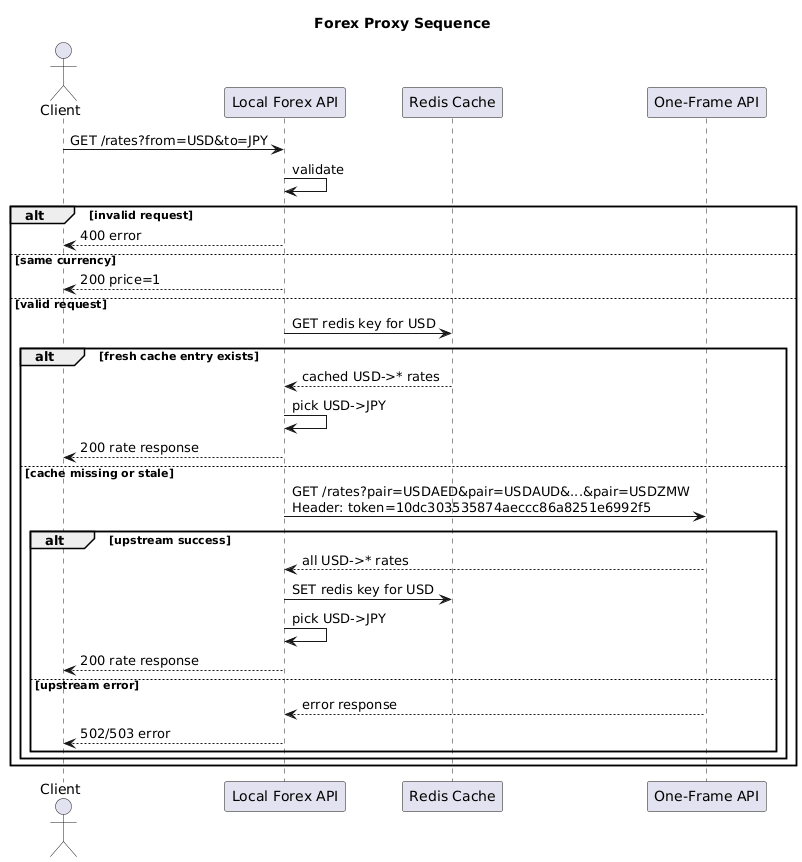
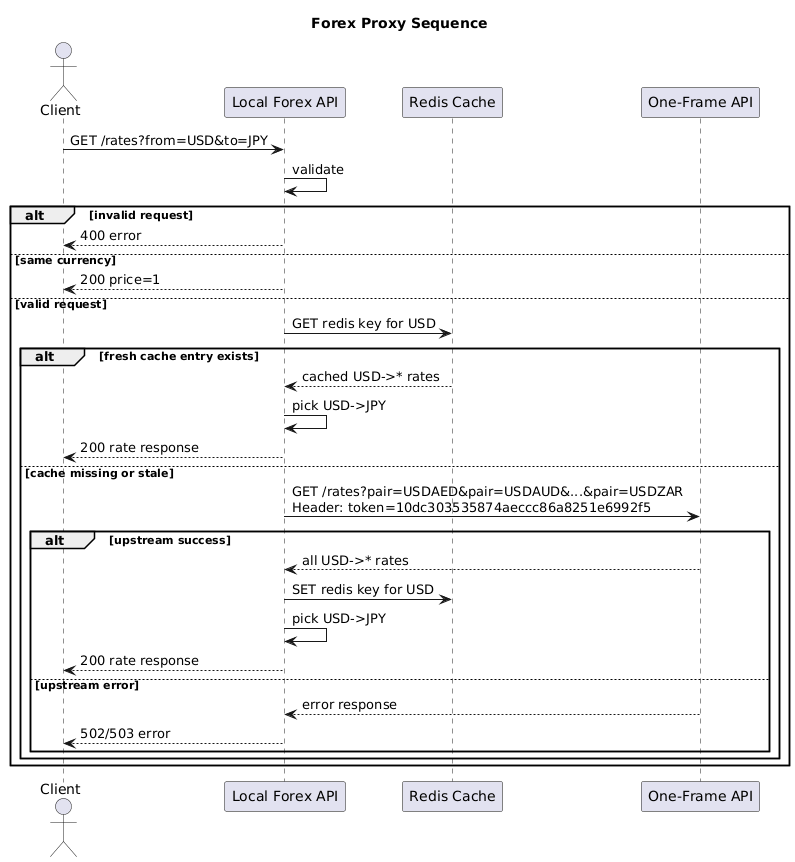
Align docs with cache behavior and tests

diff --git a/documentation/investigation/investigation.md b/documentation/investigation/investigation.md
@@ -16,7 +16,7 @@ with header:
 
 - Expose a local API that returns an exchange rate for a requested currency pair.
 - Validate that `from` and `to` are supported currencies.
-- Reject invalid requests where `from == to`.
+- Return price `1` locally when `from == to`, without calling upstream.
 - Call the upstream One-Frame `GET /rates` API when fresh data is not available locally.
 - Cache successful upstream responses.
 - Return rates that are not older than 5 minutes.
@@ -36,25 +36,30 @@ with header:
 
 ## Upstream Findings
 
-- The One-Frame service charges quota per request, not per pair.
-- A single request can fetch multiple pairs.
-- Missing or wrong token returns:
-  - `{"error":"Forbidden"}`
-- The service supports a large currency set, and batching is essential to use quota efficiently.
+| Finding | Result |
+| --- | --- |
+| quota model | charged per request, not per pair |
+| batching | one request can fetch many `pair` values |
+| auth failure | missing or wrong token returns `{"error":"Forbidden"}` |
+| design impact | batching helps, but request URL size becomes the real limit |
 
 ### Request Size Finding
 
 | Probe | Result |
 | --- | --- |
+| `USD-*` + `JPY-*` combined | `322` pairs |
+| generated URL length | `3892` chars |
+| upstream response | `200 OK` |
 | `USD-*` + `JPY-*` + `EUR-*` combined | `483` pairs |
 | generated URL length | `5824` chars |
 | upstream response | `400 Bad Request` |
 
-Conclusion:
-
-- one `from -> *` bucket per upstream request is safe and simple
-- batching multiple large `from` buckets into one request is not safe in practice
-- request size is a real HTTP constraint, not only a theoretical concern
+| Conclusion | Why |
+| --- | --- |
+| `322 pairs` is the measured safe planning bound | it worked against the real upstream API |
+| `483 pairs` is beyond the safe bound | it failed against the real upstream API |
+| broader currency scope increases risk | larger supported sets create larger refresh URLs |
+| one requested source currency plus every other supported target currency per refresh is the safest default | simple request shape and predictable sizing |
 
 ## Caching Strategy Assumptions
 
@@ -67,7 +72,7 @@ Some currencies and currency pairs will be requested much more often than others
 ### Cache Design Assumptions
 
 - Freshness window is 5 minutes.
-- Cached entries older than 5 minutes are stale.
+- A cached Redis entry is stale when its oldest upstream rate timestamp is older than 5 minutes.
 - Upstream budget should be treated as a refresh budget.
 - Cache hit ratio must be high enough that most local requests do not require upstream access.
 - Batching stale or missing pairs into one upstream request is preferable to one-pair-per-request fetching.
@@ -83,7 +88,7 @@ Cache key:
 
 Behavior:
 
-- On a miss for `USD -> JPY`, fetch all valid `USD -> *` pairs from upstream in one request, then cache them.
+- On a miss for `USD -> JPY`, fetch `USD` with every other supported target currency in one upstream request, then cache those results.
 - Store the fetched bucket locally and serve later requests for the same `from` currency from cache until the bucket becomes stale.
 
 Pros:
@@ -106,7 +111,7 @@ Cons:
 - The implementation intentionally limits the supported currency set to a top-30 list to preserve the documented `10K/day` target.
 - Increasing the supported currency set increases refresh request size and can compromise the documented `10K/day` target.
 - Returning stale data older than 5 minutes is not considered a successful response under the assignment requirement.
-- When a `from` currency is requested, caching the full `from -> *` bucket is acceptable because upstream cost is per request, not per pair.
+- When a `from` currency is requested, caching that source currency with every other supported target currency is acceptable because upstream cost is per request, not per pair.
 - The first version should stay simple and should not optimize based on historical traffic patterns.
 - The 10,000/day goal is achievable under a normal traffic distribution where repeated requests reuse cached `from` buckets.
 - The service cannot guarantee 10,000/day under arbitrary adversarial traffic where every request forces a unique stale bucket refresh.
@@ -143,7 +148,7 @@ Cons:
 | upstream budget | `1,000 requests/day` |
 | freshness TTL | `5 minutes` |
 | cache key | `from` currency |
-| one upstream refresh | all `from -> *` pairs |
+| one upstream refresh | requested source currency with every other supported target currency |
 
 ### Required Cache Hit Ratio
 
@@ -232,7 +237,7 @@ Coverage constraint:
 | pairs per upstream request | `10 * 29 = 290` |
 | upstream requests/day | `3 * 288 = 864/day` |
 
-So `30` is the maximum supported currency set size that still fits the `10K/day` target under the current assumptions and measured upstream URL-size behavior.
+`30` is the maximum supported currency set size that still fits the `10K/day` target under the current assumptions and measured upstream URL-size behavior.
 
 ### Honest Limit
 
@@ -261,7 +266,7 @@ This strategy proves `10,000/day` only under these conditions:
 | Situation | Response |
 | --- | --- |
 | per-client or global concurrency above threshold | `429 Too Many Requests` |
-| same `from` bucket already refreshing | reject or wait; first version may return `429` |
+| same `from` bucket already refreshing | wait on the in-process lock in the current implementation |
 | upstream quota exhausted and no fresh cache | `503 Service Unavailable` |
 
 ### Goal

diff --git a/README.md b/README.md
@@ -18,12 +18,29 @@ Assignment:
 
 ## Quickstart
 
-| Step | Action |
-| --- | --- |
-| `1` | copy `.env.example` to `.env` |
-| `2` | use the values in `.env` |
-| `3` | run `docker compose up --build` to start `one-frame`, `redis`, and `forex-proxy` |
-| `4` | call `http://localhost:8081/rates?from=USD&to=JPY` |
+`.env` is local-only and is not checked into Git.
+
+```bash
+cp .env.example .env
+```
+
+Start `one-frame`, `redis`, and `forex-proxy`:
+
+```bash
+docker compose up --build
+```
+
+Verify `one-frame`:
+
+```bash
+curl -H "token: 10dc303535874aeccc86a8251e6992f5" "http://localhost:8080/rates?pair=USDJPY"
+```
+
+Verify `forex-proxy`:
+
+```bash
+curl "http://localhost:8081/rates?from=USD&to=JPY"
+```
 
 Run tests:
 
@@ -33,17 +50,13 @@ sbt test
 
 ## Assumptions
 
-| Item | Why |
-| --- | --- |
-| Redis cache | shared cache is closer to production than per-process memory and survives app restarts |
-| Supported currencies = `30` | chosen to keep the documented `10K/day` target realistic under upstream quota and request-size limits |
-| Cache refresh policy | on miss or stale data, fetch all supported `from -> *` rates once and reuse them for later requests with the same `from` |
-| Scope tradeoff | increasing supported currencies increases upstream request size and can compromise the `10K/day` target |
-
-Proof and sizing:
-- [Investigation - Upstream Findings](./documentation/investigation/investigation.md#upstream-findings)
-- [Investigation - Proof Of Capacity](./documentation/investigation/investigation.md#proof-of-capacity)
-- [Investigation - Maximum Supported Currencies For `10K/day`](./documentation/investigation/investigation.md#maximum-supported-currencies-for-10kday)
+| Item | Why | Proof |
+| --- | --- | --- |
+| Redis cache | shared cache is closer to production than per-process memory and survives app restarts | [API and I/O](./documentation/api-interface/api-io.md#cache) |
+| Supported currencies = `30` | code can be expanded to more currencies, but `30` was chosen to keep the documented `10K/day` target realistic under upstream quota and measured request-size limits | [Investigation - Maximum Supported Currencies For `10K/day`](./documentation/investigation/investigation.md#maximum-supported-currencies-for-10kday) |
+| Cache refresh policy | on miss or stale data, fetch the requested source currency with every other supported target currency once and reuse those cached rates for later requests with the same source currency | [API and I/O](./documentation/api-interface/api-io.md#request-steps) |
+| Scope tradeoff | increasing supported currencies increases upstream URL size; measured safe upstream batch was `322` pairs and measured failing batch was `483` pairs, so broader scope can compromise the `10K/day` target | [Investigation - Request Size Finding](./documentation/investigation/investigation.md#request-size-finding) |
+| `10K/day` target | cache refresh strategy is sized to fit under the upstream `1000/day` limit | [Investigation - Proof Of Capacity](./documentation/investigation/investigation.md#proof-of-capacity) |
 
 ## Design Links
 

diff --git a/documentation/api-interface/api-io.md b/documentation/api-interface/api-io.md
@@ -49,10 +49,10 @@
 | --- | --- |
 | Cache key | `from` |
 | Cache storage | Redis |
-| Cache value | all `from -> *` pairs |
-| Freshness check | requested rate timestamp must be `< 5 minutes` old |
-| Miss action | fetch full `from -> *` bucket |
-| Stale action | refetch full `from -> *` bucket |
+| Cache value | requested source currency with every other supported target currency |
+| Freshness check | oldest cached upstream timestamp in the Redis entry must be `< 5 minutes` old |
+| Miss action | fetch requested source currency with every other supported target currency |
+| Stale action | refetch requested source currency with every other supported target currency |
 
 ## Assumptions
 
@@ -68,7 +68,7 @@
 | 2 | if `from == to`, return price `1` |
 | 3 | read Redis cache by `from` |
 | 4 | if fresh, return `from -> to` |
-| 5 | if miss/stale, call upstream for `from -> *` |
+| 5 | if miss/stale, call upstream for the requested source currency with every other supported target currency |
 | 6 | replace Redis cache entry |
 | 7 | return `from -> to` |
 
@@ -108,7 +108,7 @@
 | missing `to` | `400` |
 | unsupported `from` | `400` |
 | unsupported `to` | `400` |
-| same `from` and `to` | return `200` with price `1` |
+| same `from` and `to` | return `200` with price `1`, no upstream call |
 | stale cache bucket | refresh upstream |
 | empty upstream bucket | `502` |
 | partial upstream bucket | `502` if requested pair missing |
